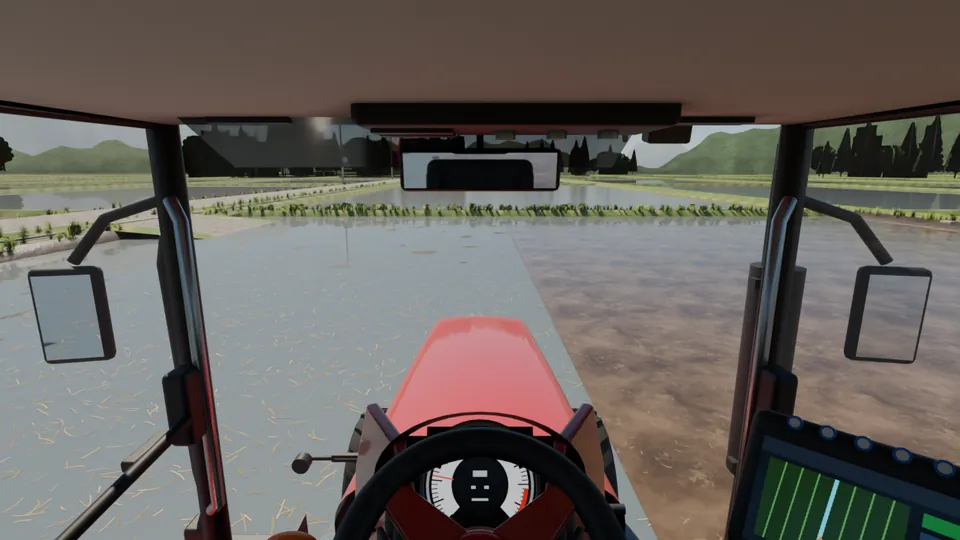
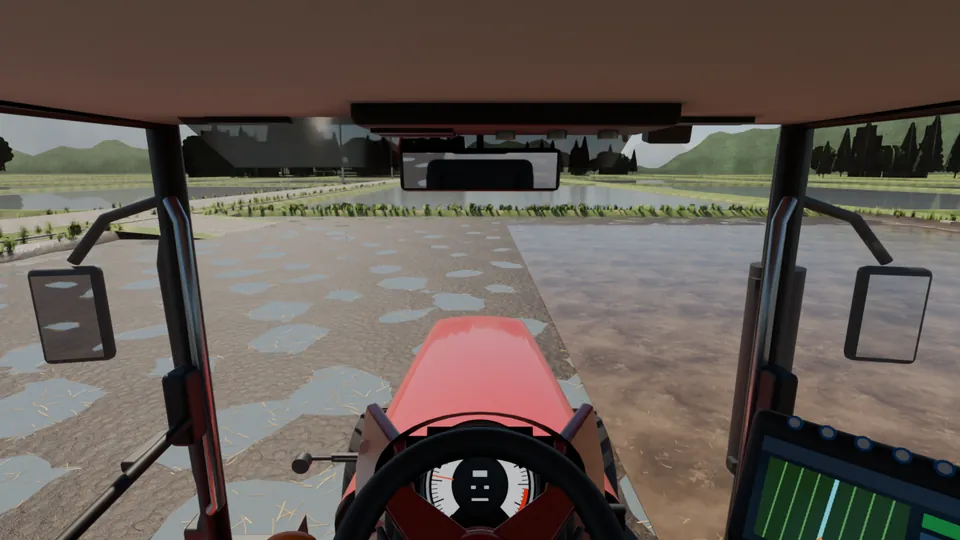
トラクターのゲーム：トップの紹介写真を今の田んぼに（レンゲ畑・ひこばえ・浅水）・代かきの確認の絵はハロー (#196)
- ricepia.jp トップのトラクター欄の写真（go.ricepia.jp/tractor/shots の field・aki・shirokaki）を、いまの田んぼの確認の絵から作り直す（春：まわりのレンゲ畑と軽トラ、秋：ひこばえ、代かき：土が 8 割見える浅水）
- 代かきの確認の絵は、トラクターのロータリーをウイングハロー（harrow_yt.glb）につけかえて描く

Claude-Session: https://claude.ai/code/session_01HKugkT32sxQHPjCG6Wdyx4

diff --git a/tools/tractor/build_field.py b/tools/tractor/build_field.py
@@ -20,6 +20,7 @@ sys.path.insert(0, HERE)
 import build_tractor as bt  # noqa: E402  部品の関数（pipe・box・cyl・part・finalize など）を借りる
 
 TRACTOR_GLB = os.path.join(HERE, 'tractor_yt.glb')
+HARROW_GLB = os.path.join(HERE, 'harrow_yt.glb')       # 代かきの確認の絵につける
 TEXDIR = os.path.join(bpy.app.tempdir or '/tmp', 'tanbo_tex')
 RENDER = '--no-render' not in sys.argv
 FAST = '--fast' in sys.argv
@@ -1502,6 +1503,17 @@ def preview_scene():
             o.location = TRACTOR_AT + Vector((0, 0, -0.09 if SEASON == 'shirokaki' else 0.0))   # 代かきは泥に少し沈む
         if o.parent is None and o.name.startswith('Rotary'):
             o.location = TRACTOR_AT + Vector((0, bt.ROTARY_Y, -0.12 if SEASON == 'shirokaki' else -0.06))
+            if SEASON == 'shirokaki':                                   # 代かきはウイングハロー（harrow_yt.glb）につけかえる
+                for c in [o] + list(o.children_recursive):
+                    c.hide_render = True
+    if SEASON == 'shirokaki' and os.path.exists(HARROW_GLB):
+        before = set(bpy.data.objects)
+        bpy.ops.import_scene.gltf(filepath=HARROW_GLB)
+        new = [o for o in bpy.data.objects if o not in before]
+        tmp += new
+        for o in new:
+            if o.parent is None and o.name.startswith('Rotary'):
+                o.location = TRACTOR_AT + Vector((0, bt.ROTARY_Y, -0.11))
     bpy.context.view_layer.update()
     return tmp
 
